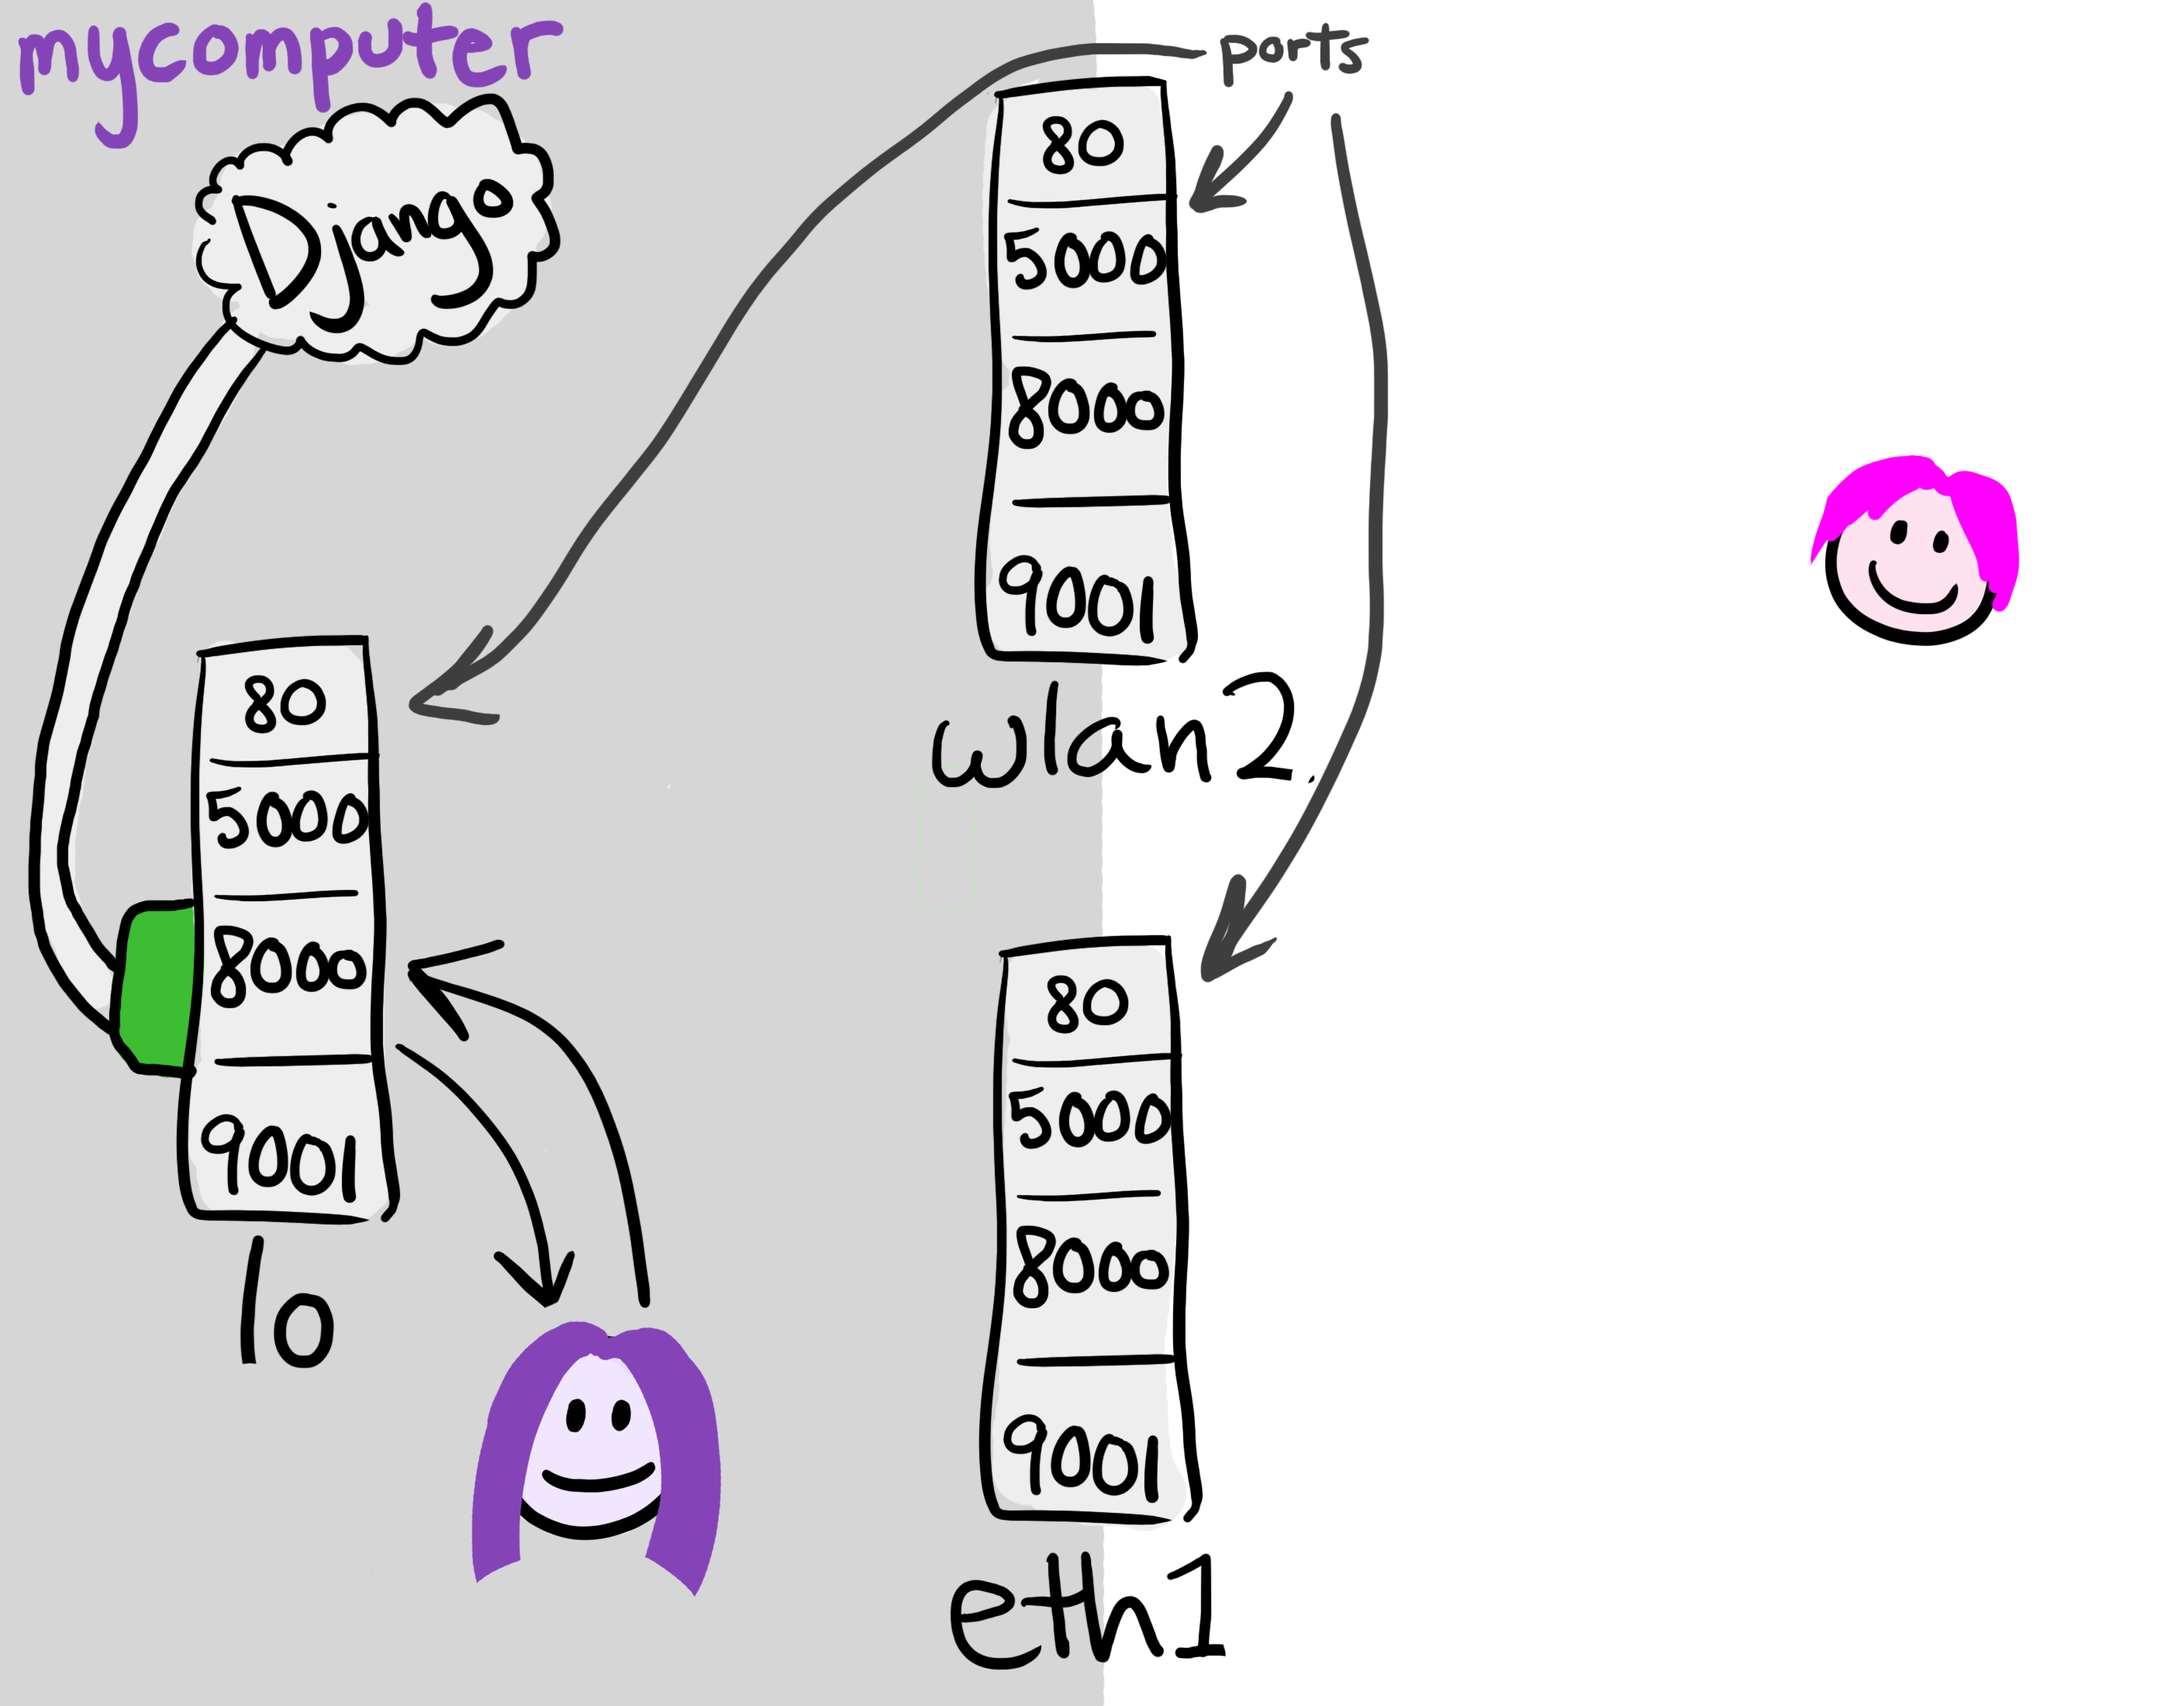
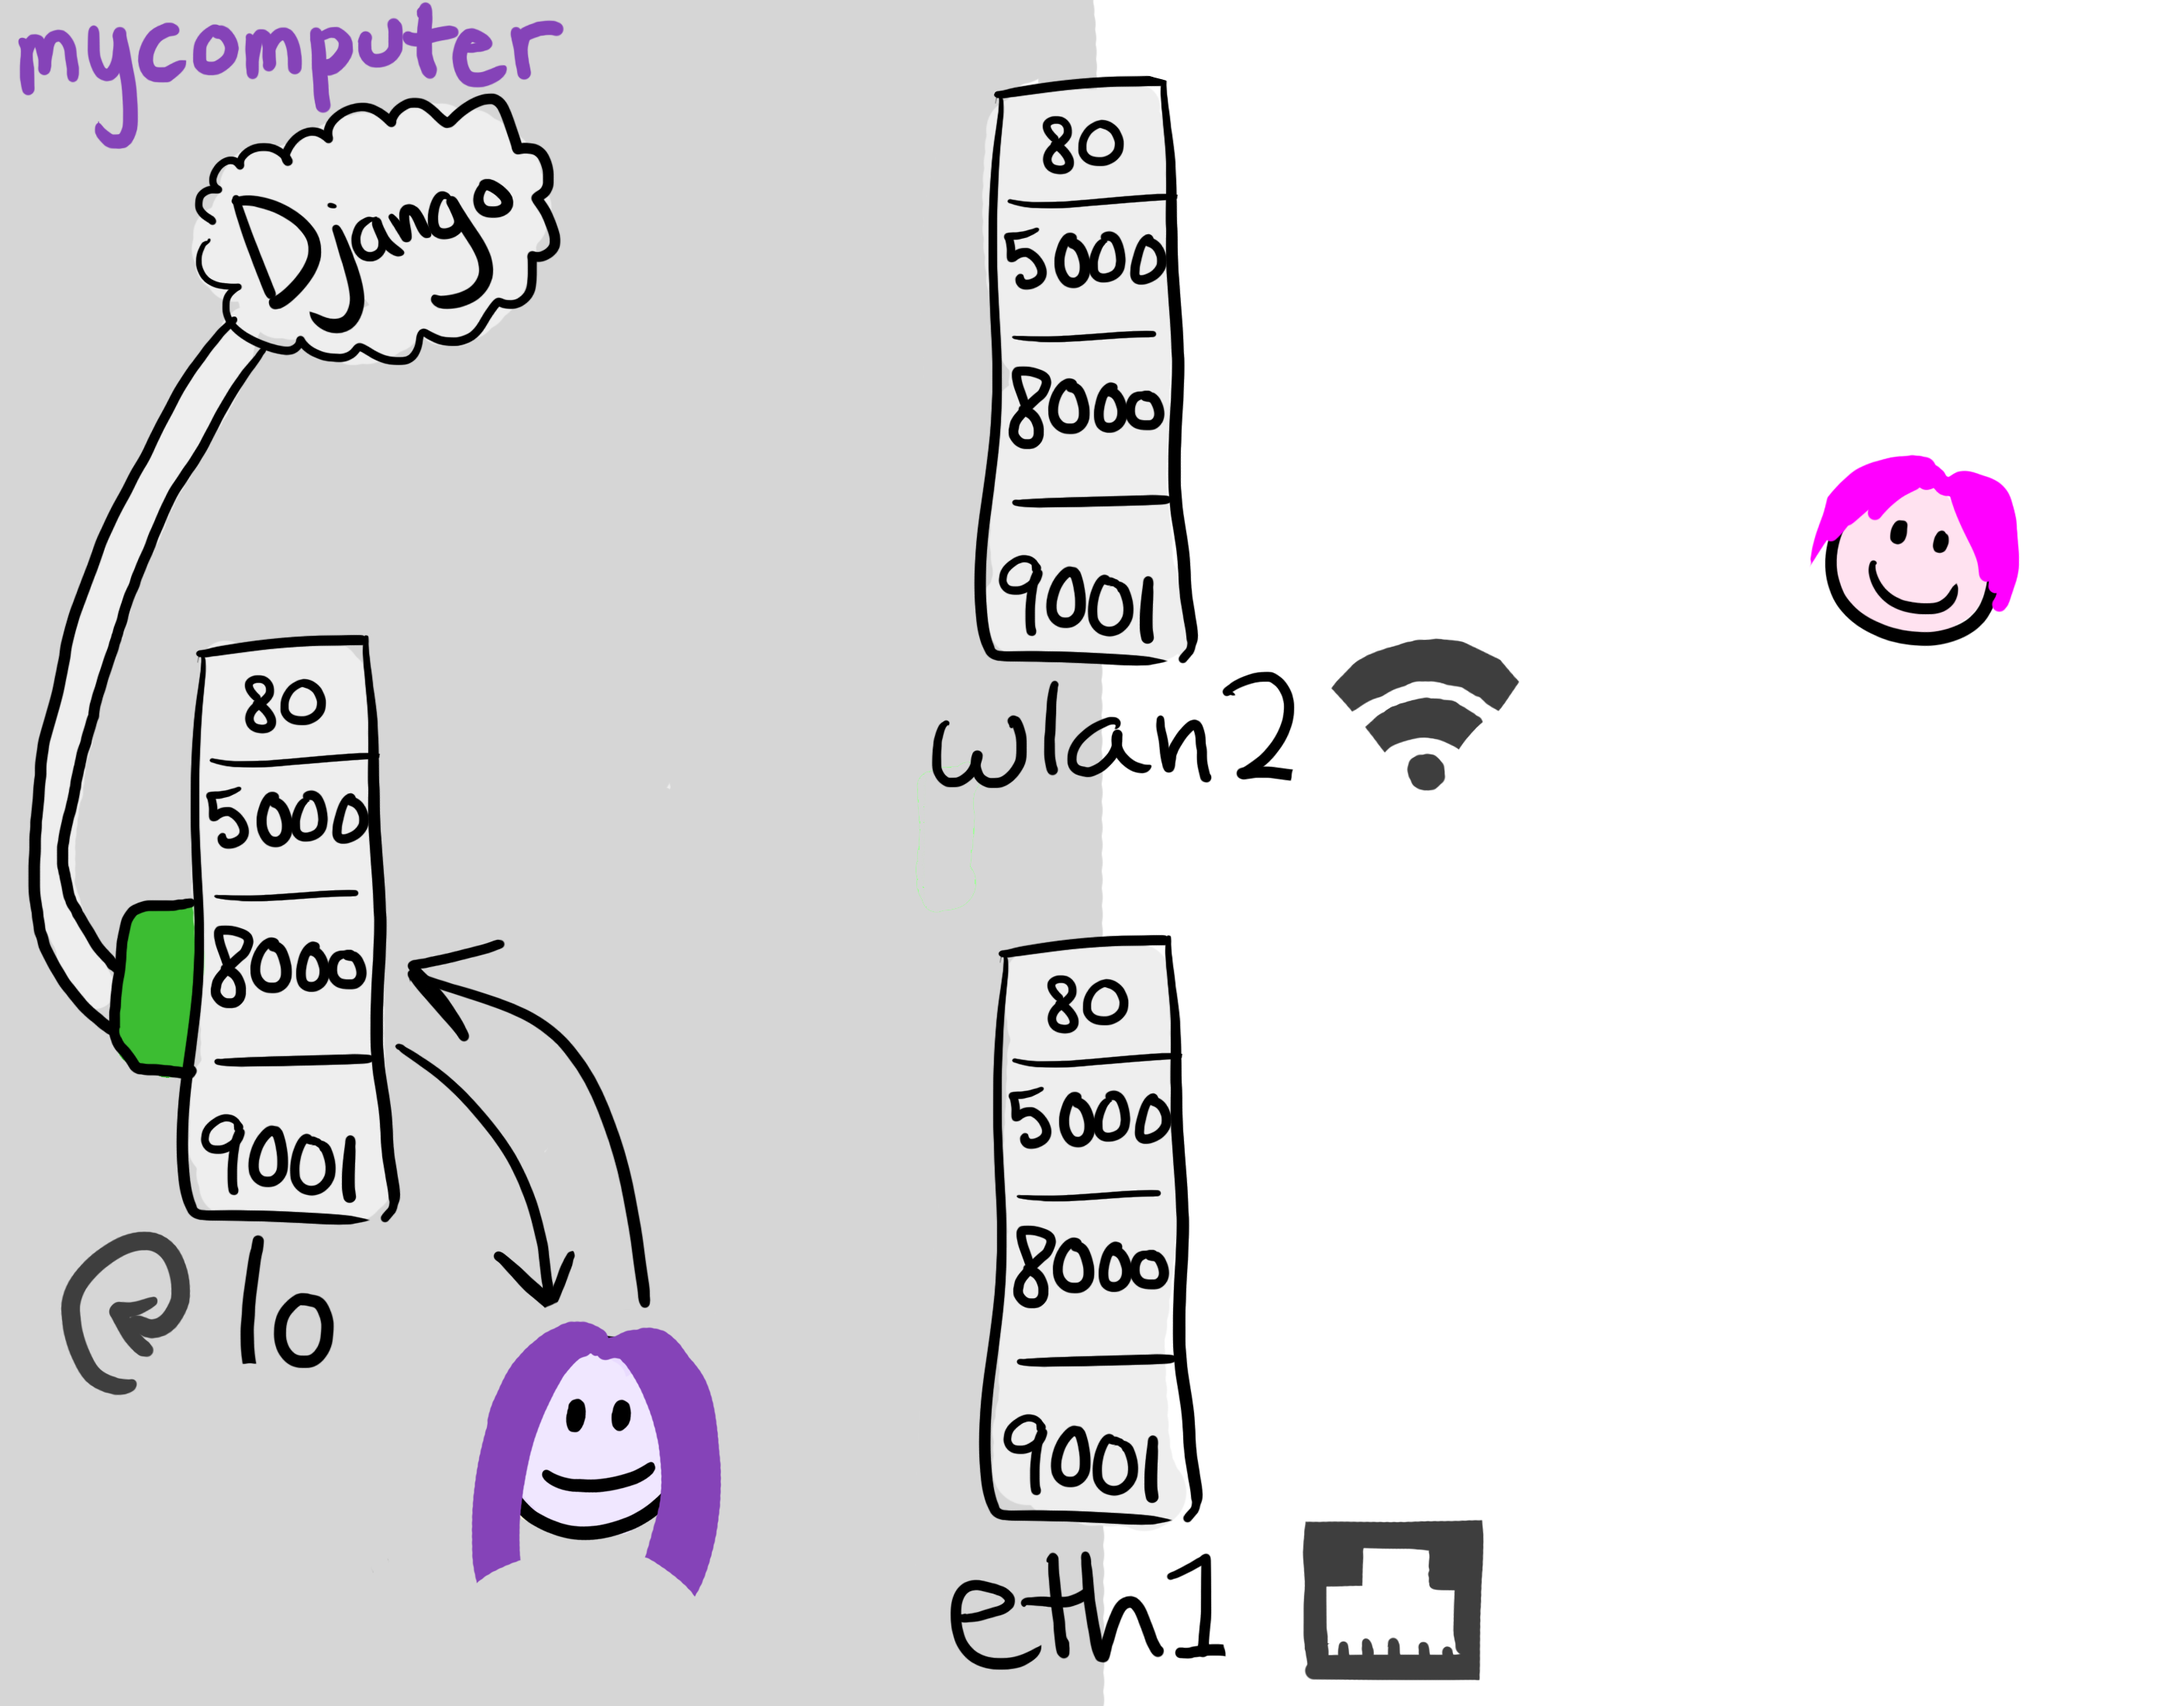
Lots of new diagrams, hooray.

diff --git a/index.html b/index.html
@@ -520,8 +520,16 @@ rtt min/avg/max/mdev = 17.057/23.049/30.371/6.035 ms
 
     <section class="slide">
       <div class="vcenter">
-        (diagram of router port forwarding)
+        <img src="img/tomato.png">
       </div>
+    </section>
+
+    <section class="slide">
+        <img src="img/routerforwarding1.png">
+    </section>
+
+    <section class="slide">
+        <img src="img/routerforwarding2.png">
     </section>
 
     <section class="slide">
@@ -541,22 +549,15 @@ rtt min/avg/max/mdev = 17.057/23.049/30.371/6.035 ms
     </section>
 
     <section class="slide">
-      <div class="vcenter">
-        Borrow a port (diagram)
-      </div>
+        <img src="img/ssh1.png">
     </section>
 
     <section class="slide">
-      <div class="vcenter">
-        Connect it to a port on your laptop (diagram)
-      </div>
+        <img src="img/ssh2.png">
     </section>
 
     <section class="slide">
-      <div class="vcenter">
-        <img src="img/third.png" class="chibi">
-        Send a link to the server and its borrowed port. All the traffic forwarded to you
-      </div>
+        <img src="img/ssh3.png">
     </section>
 
     <section class="slide">
@@ -724,6 +725,12 @@ rtt min/avg/max/mdev = 17.057/23.049/30.371/6.035 ms
     <section class="slide">
       <div class="vcenter">
         (lamson demo)
+      </div>
+    </section>
+
+    <section class="slide">
+      <div class="vcenter">
+        (asheesh writes some more slides here)
       </div>
     </section>
 
